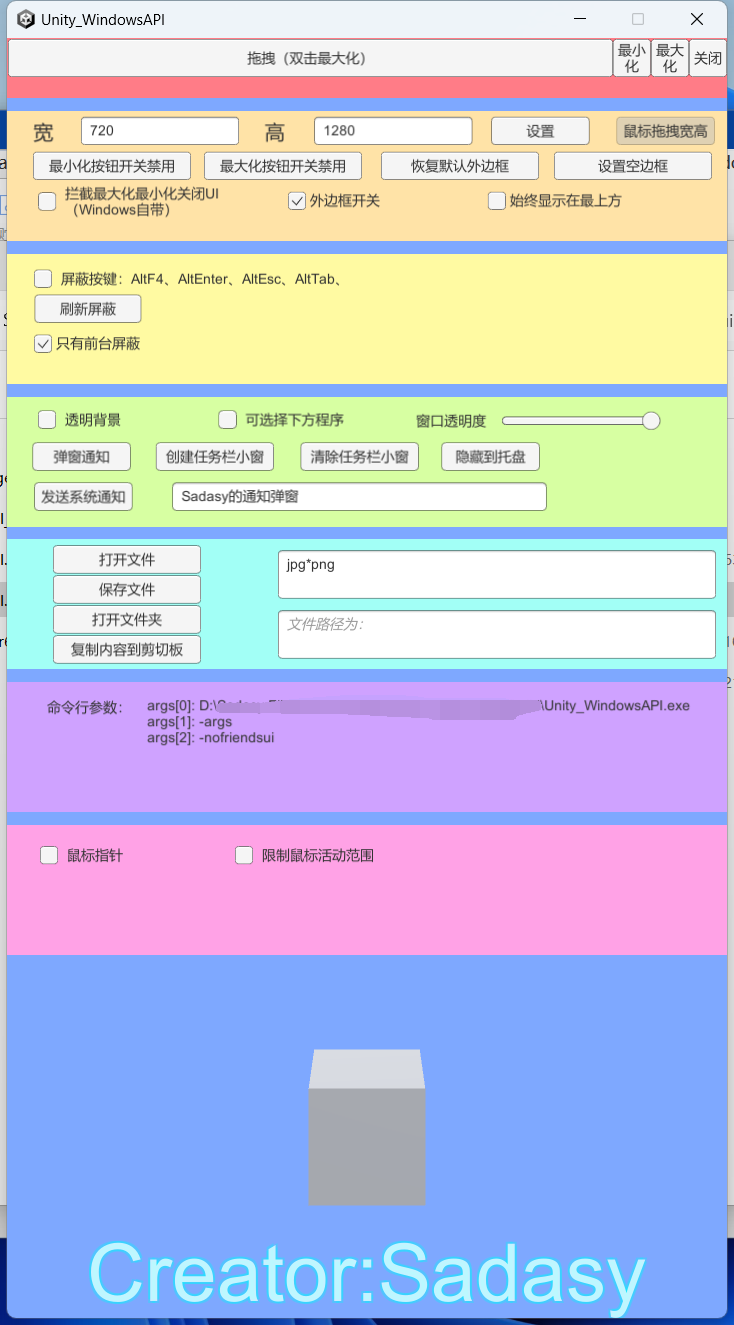
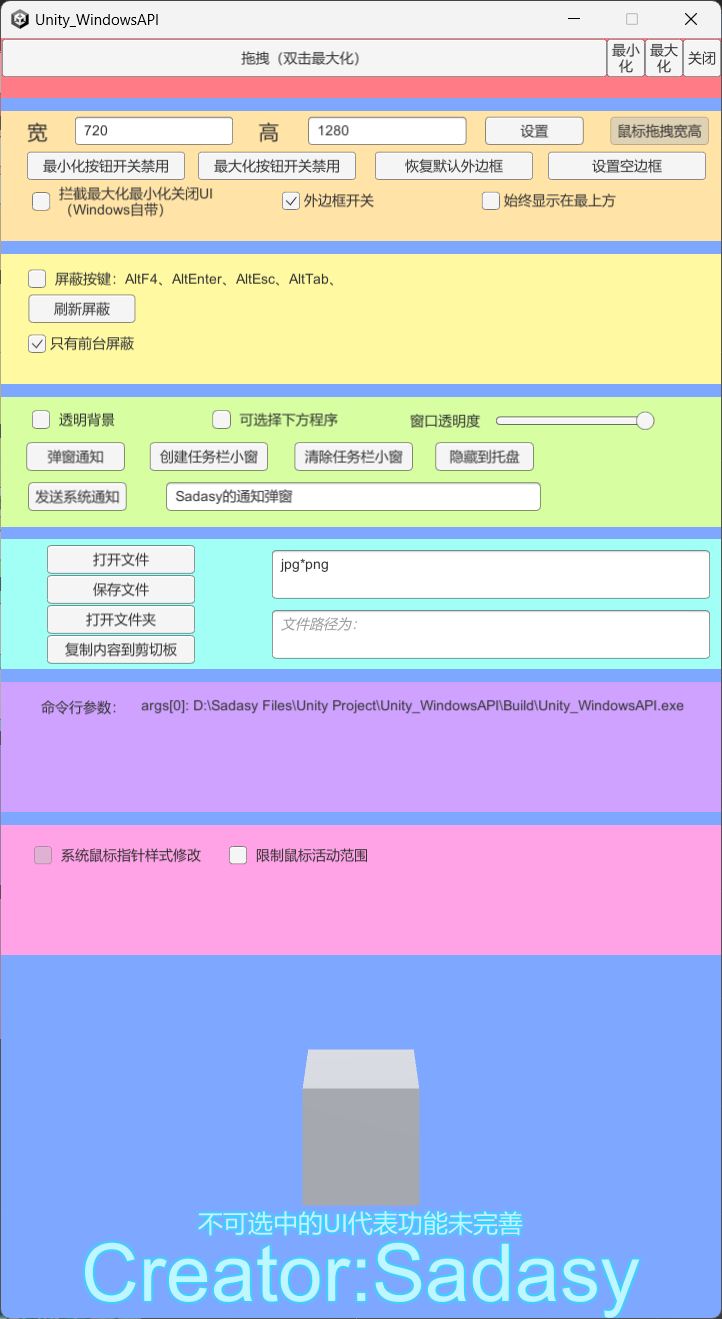
犯懒了，就做到这里了

Changed region(s): [[0.0, 0.0, 1.0, 1.0], [0.4266, 0.7771, 0.5789, 0.8393]]

diff --git a/Assets/WinApi/Scripts/WindowsTools.cs b/Assets/WinApi/Scripts/WindowsTools.cs
@@ -767,15 +767,16 @@ public class WindowsTools
         }
         _notifyIcon = new NotifyIcon();
         _notifyIconS = _notifyIcon;
-        //_notifyIcon.BalloonTipText = "Sadasy";//托盘气泡显示内容
+        _notifyIcon.BalloonTipText = "Sadasy";//托盘气泡显示内容
         _notifyIcon.Text = "Sadasy的图标提示";//鼠标悬浮时显示的内容
         _notifyIcon.Visible = true;
         _notifyIcon.Icon = CustomTrayIcon(UnityEngine.Application.streamingAssetsPath + "/icon.png", 100, 100);
         MenuItem closeMenu = new MenuItem("关闭");
-        MenuItem[] menuItems = new MenuItem[] { closeMenu };
+        MenuItem closeMenu_ = new MenuItem("切换鼠标");
+        MenuItem[] menuItems = new MenuItem[] { closeMenu, closeMenu_ };
         _notifyIcon.ContextMenu = new System.Windows.Forms.ContextMenu(menuItems);
         closeMenu.Click += OnMenuClose;
-
+        closeMenu_.Click += ChangeMouse;
         _notifyIcon.MouseClick += notifyIcon_MouseClick;
     }
     /// <summary>
@@ -808,6 +809,16 @@ public class WindowsTools
         CloseWindow(myWindowHandle);
         PostMessage(myWindowHandle, WM_SYSCOMMAND, SC_CLOSE, 0);
     }
+    bool isChange;
+    private void ChangeMouse(object sender, EventArgs e)
+    {
+        if (isChange)
+            System.Windows.Forms.Cursor.Current = Cursors.VSplit;
+        else
+            System.Windows.Forms.Cursor.Current = Cursors.Default;
+        isChange = !isChange;
+    }
+
 
     /// <summary>
     /// 绘制图标
@@ -945,21 +956,29 @@ public class WindowsTools
     //[DllImport("user32.dll")]
     //public static extern void SetHandCursor(IntPtr ptr,);
 
+    /*public void CursorState()
+    {
+        Debug.Log(System.Windows.Forms.Cursor.Current);
+    }*/
+    /*
     /// <summary>
     /// 修改鼠标指针
     /// </summary>
     /// <param name="isOn"></param>
     public void SystemCursor(bool isOn)
     {
+        //UnityEngine.Cursor
         System.Windows.Forms.Cursor cursor = new System.Windows.Forms.Cursor(myWindowHandle);
         Debug.Log(cursor.Handle.ToString());
+        Debug.Log(System.Windows.Forms.Cursor.Current);
         //cursor.current
         //UnityEngine.Cursor.SetCursor(new Texture2D(0, 0), Vector2.zero, CursorMode.Auto);
         if (isOn)
-            System.Windows.Forms.Cursor.Current = Cursors.Hand;
+            System.Windows.Forms.Cursor.Current = Cursors.WaitCursor;
         else
             System.Windows.Forms.Cursor.Current = Cursors.Default;
-    }
+    }*/
+
     /// <summary>
     /// 限制鼠标范围
     /// </summary>

diff --git a/Assets/WinApi/Scripts/SetWindow.cs b/Assets/WinApi/Scripts/SetWindow.cs
@@ -512,13 +512,7 @@ public class SetWindow : MonoBehaviour
     #endregion
 
     #region 修改鼠标系统指针
-    public void SystemCursor(bool isOn)
-    {
-        winTool.SystemCursor(isOn);
-        /*
-        if (isOn)
-            winTool.SystemCursor(EventSystem.current.IsPointerOverGameObject());*/
-    }
+
     /// <summary>
     /// 限制鼠标范围
     /// </summary>

diff --git a/README.md b/README.md
@@ -1,30 +1,28 @@
 # Unity-Windows-API
 Unity中调用WindowsAPI
 
+——2024.7.12，暂时告一段落。会及时查看问题，如有需要修改或增加的内容可以提出
+
 参考：
 https://download.csdn.net/download/luoyikun/87362220
 
 https://blog.csdn.net/sinat_25415095/article/details/121176468
       
-使用时，可直接参照场景：Scene-WindowsCtrl场景下的UI绑定的函数进行学习调用。
-所有脚本绑定在该场景下的Windows物体上，TopWindows是另外的置顶窗口脚本，需要另外调用。
+使用时，可直接参照场景：Scene-WindowsCtrl场景下的UI绑定的函数进行学习调用。所有脚本绑定在该场景下的Windows物体上。
 
 注意事项：
-1.注意键盘钩子的释放。如果需要多个键盘钩子默认启用，将streamingAssets下的winhook.json中增加键盘秘钥即可。
+
+1.注意键盘钩子的释放。如果需要多个键盘钩子默认启用，将streamingAssets下的winhook.json中增加键盘秘钥即可。键盘秘钥地址：https://learn.microsoft.com/zh-cn/windows/win32/inputdev/virtual-key-codes
 
 2.注意不要随意修改"csc.rsp"文件。如果有关于该文件的报错，请将.net环境(Project Settings-Player-Other Settings-Api Compatibility Level)设置为.Net Framework即可。
 
-3.注意：直接调用WindowsAPI的函数必须为静态。
+3.打开透明背景，需要关闭：Project Setting-Resoulution and Presentation -Use DXGI filp model swapchain for D3D11
 
-4.键盘秘钥地址：https://learn.microsoft.com/zh-cn/windows/win32/inputdev/virtual-key-codes
-
-5.打开透明背景，需要关闭：Project Setting-Resoulution and Presentation -Use DXGI filp model swapchain for D3D11
-
-注1： 创建托盘小窗后，通过托盘小窗/win右上角关闭按钮直接关闭，会产生莫名崩溃
+Bug1： 创建托盘小窗后，通过托盘小窗/win右上角关闭按钮直接关闭，会产生莫名崩溃
       该bug尚未解决，避免方式为：打开UI中的拦截最大化最小化关闭UI。
       疑似是NotifyIcon没有释放，在关闭窗体的时候，没有优先调用notifyicon的GC，暂无办法根治
       
-注2： 在选择透明背景-可选择下方程序后，如果选择其他程序，需要从菜单栏选择该程序后，才可以进行交互
+Bug2： 在选择透明背景-可选择下方程序后，如果选择其他程序，需要从菜单栏选择该程序后，才可以进行交互
       这是因为在UI选中的时候，才会取消穿透交互。最优方案是不需要点击该程序就可以继续交互，但暂无方案
 
 
